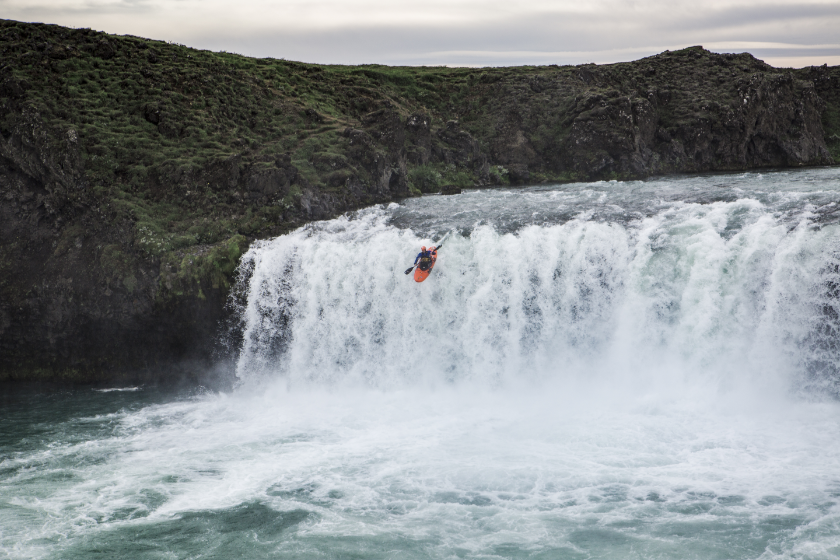
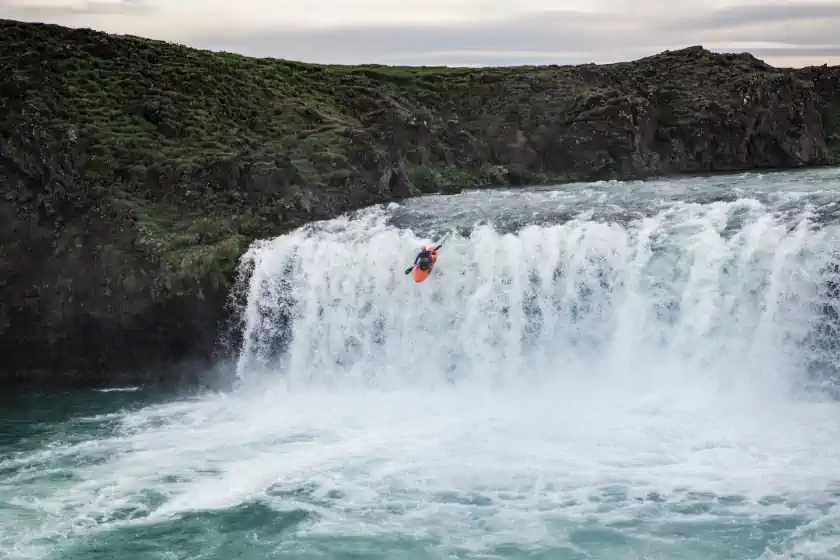
improved naming conventions

Changed region(s): [[0.4952, 0.425, 0.5262, 0.5161]]

diff --git a/wwr/index.html b/wwr/index.html
@@ -56,7 +56,7 @@
                     <p class="adventure_type_description">Lorem ipsum dolor sit amet consectetur adipisicing elit. Dolorem ipsa architecto quisquam accusamus. Nam eaque impedit obcaecati, laudantium reiciendis temporibus cupiditate quam omnis dolore quia.</p>
                 </div>
                 <div class="adventure_types grid_column_2">
-                    <img src="images/canoe-with-person-falling-from-waterfall-1.webp" alt="Man in kayak riding down waterfall">
+                    <img src="images/canoe-with-person-falling-from-waterfall.webp" alt="Man in kayak riding down waterfall">
                     <p class="adventure_type_title">Kayaking - High Difficulty</p>
                     <p class="adventure_type_description">Lorem ipsum dolor sit amet consectetur adipisicing elit. Dolorem ipsa architecto quisquam accusamus. Nam eaque impedit obcaecati, laudantium reiciendis temporibus cupiditate quam omnis dolore quia.</p>
                 </div>
@@ -78,9 +78,9 @@
         <footer>
             <p>&copy; 2024 | Whitewater Rafting | James Winston Clawson | <a href="images/home.webp">Wireframe</a></p>
             <nav class="sociallinks">
-                <a href="#"><img src="images/x_icon-128.webp" alt="X Logo"></a>
-                <a href="#"><img src="images/4362964_facebook_fb_logo_socialmedia_icon.png" alt="Facebook Logo"></a>
-                <a href="#"><img src="images/instagram_icon-instagram_buttoninstegram-128.webp" alt="Instagram Logo"></a>
+                <a href="#"><img src="images/x_icon.webp" alt="X Logo"></a>
+                <a href="#"><img src="images/facebook_icon.png" alt="Facebook Logo"></a>
+                <a href="#"><img src="images/instagram_icon.webp" alt="Instagram Logo"></a>
             </nav>
         </footer>
     </body>

diff --git a/wwr/contact.html b/wwr/contact.html
@@ -92,9 +92,9 @@
         <footer>
             <p>&copy; 2024 | Whitewater Rafting | James Winston Clawson | <a href="images/contact-us.webp">Wireframe</a></p>
             <nav class="sociallinks">
-                <a href="#"><img src="images/x_icon-128.webp" alt="X Logo"></a>
-                <a href="#"><img src="images/4362964_facebook_fb_logo_socialmedia_icon.png" alt="Facebook Logo"></a>
-                <a href="#"><img src="images/instagram_icon-instagram_buttoninstegram-128.webp" alt="Instagram Logo"></a>
+                <a href="#"><img src="images/x_icon.webp" alt="X Logo"></a>
+                <a href="#"><img src="images/facebook_icon.png" alt="Facebook Logo"></a>
+                <a href="#"><img src="images/instagram_icon.webp" alt="Instagram Logo"></a>
             </nav>
         </footer>
     </body>

diff --git a/wwr/trips.html b/wwr/trips.html
@@ -162,9 +162,9 @@
         <footer>
             <p>&copy; 2024 | Whitewater Rafting | James Winston Clawson | <a href="images/trips.webp">Wireframe</a></p>
             <nav class="sociallinks">
-                <a href="#"><img src="images/x_icon-128.webp" alt="X Logo"></a>
-                <a href="#"><img src="images/4362964_facebook_fb_logo_socialmedia_icon.png" alt="Facebook Logo"></a>
-                <a href="#"><img src="images/instagram_icon-instagram_buttoninstegram-128.webp" alt="Instagram Logo"></a>
+                <a href="#"><img src="images/x_icon.webp" alt="X Logo"></a>
+                <a href="#"><img src="images/facebook_icon.png" alt="Facebook Logo"></a>
+                <a href="#"><img src="images/instagram_icon.webp" alt="Instagram Logo"></a>
             </nav>
         </footer>
     </body>

diff --git a/wwr/about.html b/wwr/about.html
@@ -63,9 +63,9 @@
         <footer>
             <p>&copy; 2024 | Whitewater Rafting | James Winston Clawson</p>
             <nav class="sociallinks">
-                <a href="#"><img src="images/x_icon-128.webp" alt="X Logo"></a>
-                <a href="#"><img src="images/4362964_facebook_fb_logo_socialmedia_icon.png" alt="Facebook Logo"></a>
-                <a href="#"><img src="images/instagram_icon-instagram_buttoninstegram-128.webp" alt="Instagram Logo"></a>
+                <a href="#"><img src="images/x_icon.webp" alt="X Logo"></a>
+                <a href="#"><img src="images/facebook_icon.png" alt="Facebook Logo"></a>
+                <a href="#"><img src="images/instagram_icon.webp" alt="Instagram Logo"></a>
             </nav>
         </footer>
     </body>
